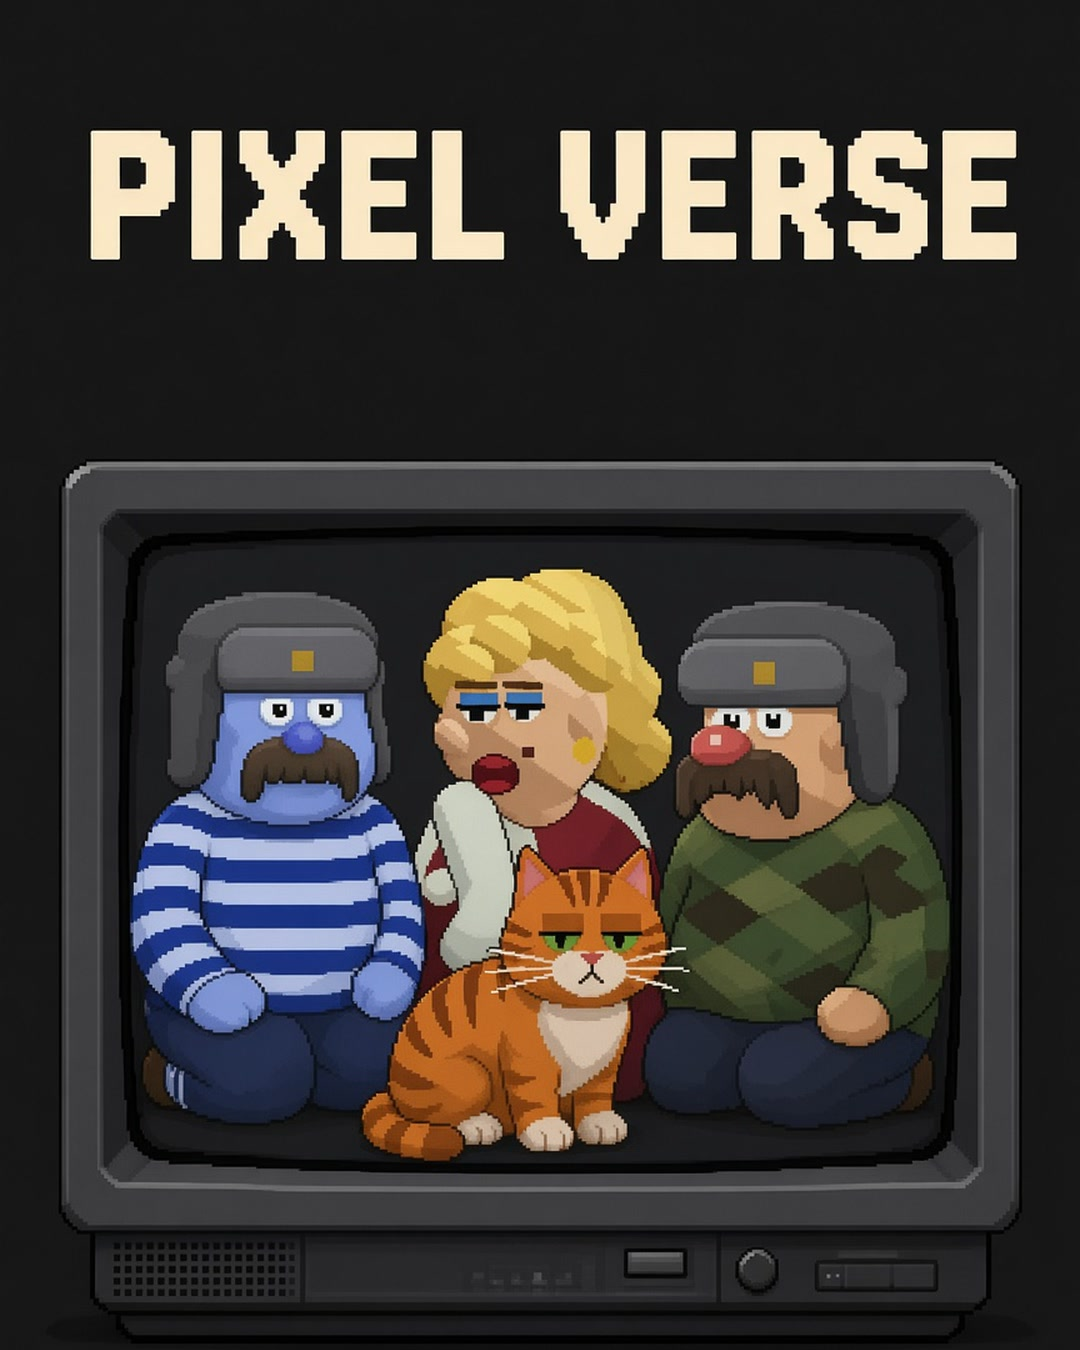
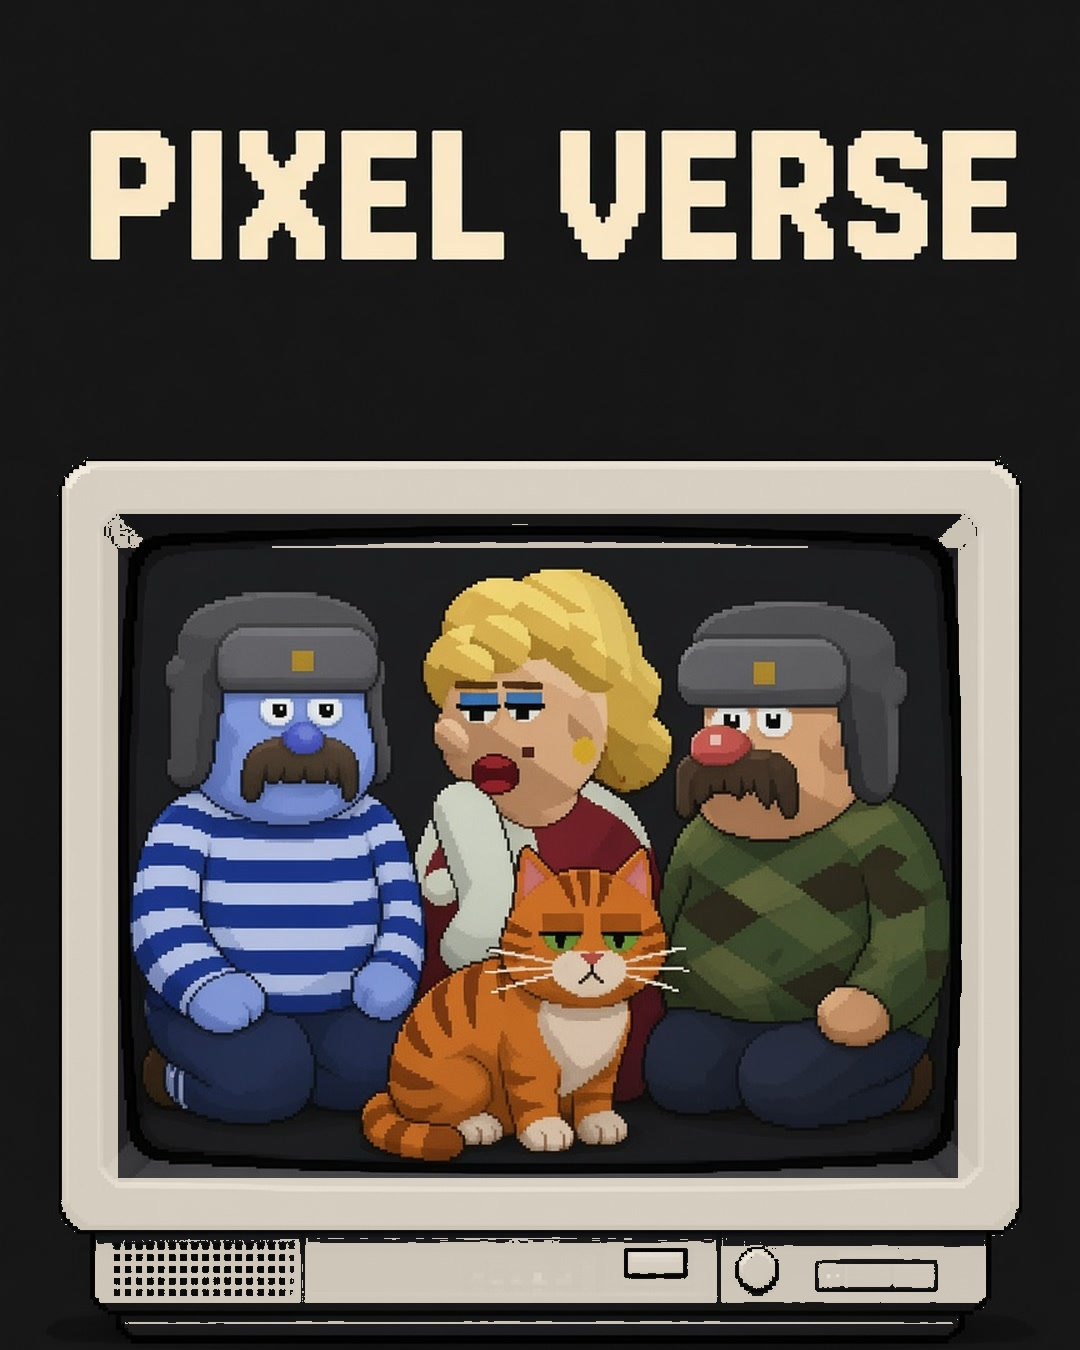
Add flying sparks and a light TV bezel.
Home copy matches the new three lines, the card no longer shows a price, and the course cover uses a warm light television body.

Changed region(s): [[0.0306, 0.3422, 0.9472, 0.9644]]

diff --git a/assets/app/app.js b/assets/app/app.js
@@ -1,4 +1,57 @@
 const PRODUCT = "pixelverse";
+const SPARK = "rgba(226, 59, 59,";
+
+const sparksCanvas = document.getElementById("sparks");
+const reduceMotion = window.matchMedia("(prefers-reduced-motion: reduce)").matches;
+const sparks = Array.from({ length: 36 }, () => makeSpark(true));
+let sparkFrame = 0;
+let sparkStamp = 0;
+
+function makeSpark(anywhere) {
+  return {
+    x: anywhere ? Math.random() : -0.04,
+    y: Math.random(),
+    speed: 0.08 + Math.random() * 0.14,
+    drift: (Math.random() - 0.5) * 0.015,
+    alpha: 0.35 + Math.random() * 0.4,
+    length: 5 + Math.random() * 7,
+  };
+}
+
+function resizeSparks() {
+  const dpr = Math.min(window.devicePixelRatio || 1, 2);
+  const width = sparksCanvas.clientWidth;
+  const height = sparksCanvas.clientHeight;
+  sparksCanvas.width = Math.max(1, Math.floor(width * dpr));
+  sparksCanvas.height = Math.max(1, Math.floor(height * dpr));
+  sparksCanvas.getContext("2d").setTransform(dpr, 0, 0, dpr, 0, 0);
+}
+
+function drawSparks(now) {
+  const ctx = sparksCanvas.getContext("2d");
+  const width = sparksCanvas.clientWidth;
+  const height = sparksCanvas.clientHeight;
+  const step = Math.min(0.05, (now - (sparkStamp || now)) / 1000 || 0.016);
+  sparkStamp = now;
+  ctx.fillStyle = "#0B0B0D";
+  ctx.fillRect(0, 0, width, height);
+  for (const spark of sparks) {
+    spark.x += spark.speed * step;
+    spark.y += spark.drift * step;
+    if (spark.x > 1.05 || spark.y < -0.05 || spark.y > 1.05) Object.assign(spark, makeSpark(false));
+    const x = spark.x * width;
+    const y = spark.y * height;
+    ctx.fillStyle = `${SPARK} ${spark.alpha})`;
+    ctx.fillRect(x, y, spark.length, 2);
+  }
+}
+
+function loopSparks(now) {
+  drawSparks(now);
+  if (!reduceMotion) sparkFrame = window.requestAnimationFrame(loopSparks);
+}
+
+if (reduceMotion) document.documentElement.classList.add("motion-off");
 
 const home = document.getElementById("home");
 const course = document.getElementById("course");
@@ -182,6 +235,11 @@ function boot() {
       if (history.state && history.state.screen === "course") history.back();
       else showHome();
     });
+  }
+  if (!reduceMotion) {
+    resizeSparks();
+    window.addEventListener("resize", resizeSparks);
+    loopSparks(performance.now());
   }
   const opened = refresh();
   if (location.hash === `#${PRODUCT}`) showCourse(true);

diff --git a/test/mini-app.test.ts b/test/mini-app.test.ts
@@ -48,8 +48,11 @@ describe("mini app copy", () => {
     const js = readFileSync("assets/app/app.js", "utf8");
     const css = readFileSync("assets/app/app.css", "utf8");
     const ui = `${html}\n${js}\n${css}`;
-    expect(html).toContain("Привет, я Markus Brown");
-    expect(html).toContain("<strong>ИИ не магия, а суперсила. Забирай свою</strong>");
+    const home = html.split('id="course"')[0] ?? html;
+    expect(html).toContain("Привет, я Markus Brown 👋");
+    expect(html).toContain("<strong>ИИ не магия, а суперсила. Забирай свою →</strong>");
+    expect(html).toContain("Здесь собраны мои авторские курсы 🚀");
+    expect(home).not.toContain("990");
     expect(html).toContain("marcus-photo.jpg");
     expect(html).toContain("pixelverse-tv.jpg");
     expect(html).not.toContain("pixelated");
@@ -57,7 +60,8 @@ describe("mini app copy", () => {
     expect(ui).not.toContain("Добро пожаловать в мой мир ИИ");
     expect(ui).not.toContain("anthropic");
     expect(html).not.toContain("<video");
-    expect(html).not.toContain("<canvas");
+    expect(html).toContain('id="sparks"');
+    expect(js).toContain("requestAnimationFrame");
     expect(html).toContain("Своя мультстудия с телефона или с компьютера");
     expect(html).toContain("Любой сериал на любую тему: твоя задумка, твои герои");
     expect(html).toContain("Площадки платят по своим правилам: реклама в Shorts, Reels и TikTok");

diff --git a/assets/app/app.css b/assets/app/app.css
@@ -93,11 +93,46 @@ main {
   gap: 12px;
 }
 
+#sparks {
+  position: fixed;
+  inset: 0;
+  width: 100%;
+  height: 100%;
+  z-index: 0;
+  pointer-events: none;
+}
+
+main {
+  position: relative;
+  z-index: 1;
+}
+
+@media (prefers-reduced-motion: reduce) {
+  #sparks { display: none; }
+}
+
+.motion-off #sparks { display: none; }
+
+.copy {
+  background: var(--card);
+  border: 1px solid var(--line);
+  border-radius: 16px;
+  padding: 14px 12px 12px;
+}
+
+.courses {
+  margin: 10px 0 0;
+  text-align: center;
+  color: var(--ink);
+  font-size: 16px;
+  line-height: 1.4;
+}
+
 .card {
   display: grid;
   grid-template-columns: 1fr auto;
   grid-template-areas:
-    "kicker price"
+    "kicker chevron"
     "name chevron"
     "line chevron";
   gap: 4px 12px;
@@ -152,14 +187,6 @@ summary:focus-visible {
   line-height: 1.4;
 }
 
-.price {
-  grid-area: price;
-  justify-self: end;
-  font-size: 15px;
-  font-weight: 700;
-  color: var(--ink);
-}
-
 .chevron {
   grid-area: chevron;
   align-self: center;
@@ -202,10 +229,12 @@ summary:focus-visible {
 
 h2 {
   margin: 16px 0 8px;
+  padding: 0;
   font-size: 26px;
   font-weight: 700;
   line-height: 1.2;
   color: var(--strong);
+  background: var(--bg);
 }
 
 h3 {
@@ -215,6 +244,7 @@ h3 {
   letter-spacing: 0.08em;
   text-transform: uppercase;
   color: var(--label);
+  background: var(--bg);
 }
 
 .promise,
@@ -228,6 +258,14 @@ details p {
 
 .promise {
   margin: 0;
+  padding: 12px 14px;
+  border-radius: 16px;
+  border: 1px solid var(--line);
+  background: var(--card);
+}
+
+#course > .kicker {
+  background: var(--bg);
 }
 
 .inside,

diff --git a/assets/app/index.html b/assets/app/index.html
@@ -9,18 +9,21 @@
     <script src="https://telegram.org/js/telegram-web-app.js"></script>
   </head>
   <body>
+    <canvas id="sparks" aria-hidden="true"></canvas>
     <main>
       <section id="home">
         <img class="portrait" src="/media/marcus-photo.jpg" alt="Markus Brown" />
-        <h1 class="hello">Привет, я Markus Brown</h1>
-        <p class="tagline"><strong>ИИ не магия, а суперсила. Забирай свою</strong></p>
+        <div class="copy">
+          <h1 class="hello">Привет, я Markus Brown 👋</h1>
+          <p class="tagline"><strong>ИИ не магия, а суперсила. Забирай свою →</strong></p>
+          <p class="courses">Здесь собраны мои авторские курсы 🚀</p>
+        </div>
         <p class="down" aria-hidden="true">↓</p>
         <div class="catalog" id="catalog">
           <button type="button" class="card" data-product="pixelverse">
             <span class="kicker">КУРС</span>
             <span class="name">PIXEL VERSE</span>
             <span class="line">Мультстудия в кармане</span>
-            <span class="price">990 ⭐</span>
             <span class="chevron" aria-hidden="true">›</span>
           </button>
         </div>

diff --git a/test/payments.test.ts b/test/payments.test.ts
@@ -163,7 +163,9 @@ describe("start links and copy", () => {
   });
 
   it("uses the mini app greeting, the course text, and generalized terms", () => {
-    expect(START_TEXT).toBe("Привет, я Markus Brown\nИИ не магия, а суперсила. Забирай свою");
+    expect(START_TEXT).toBe(
+      "Привет, я Markus Brown 👋\nИИ не магия, а суперсила. Забирай свою →\nЗдесь собраны мои авторские курсы 🚀",
+    );
     expect(START_TEXT).not.toContain("Добро пожаловать");
     expect(PIXEL_HOME.startsWith("Привет! Это PIXEL VERSE")).toBe(true);
     expect(PIXEL_CHECKOUT).toBe("Ты готов погрузиться в мир ИИ?\nХватит почты и телефона или компьютера.");

diff --git a/src/texts.ts b/src/texts.ts
@@ -1,7 +1,8 @@
 export const STAR_PRICE = 990;
 
-export const START_TEXT = `Привет, я Markus Brown
-ИИ не магия, а суперсила. Забирай свою`;
+export const START_TEXT = `Привет, я Markus Brown 👋
+ИИ не магия, а суперсила. Забирай свою →
+Здесь собраны мои авторские курсы 🚀`;
 
 export const PIXEL_HOME = `Привет! Это PIXEL VERSE ^^ 👾
 Видел наших Валеру, кота и Мазутыча? Их никто не рисовал руками. Сценарий, героев, голоса, звук и монтаж делает нейросеть Claude — с обычного телефона.
